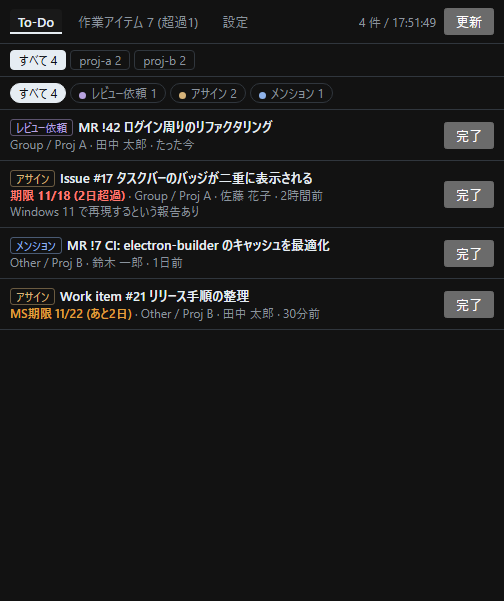
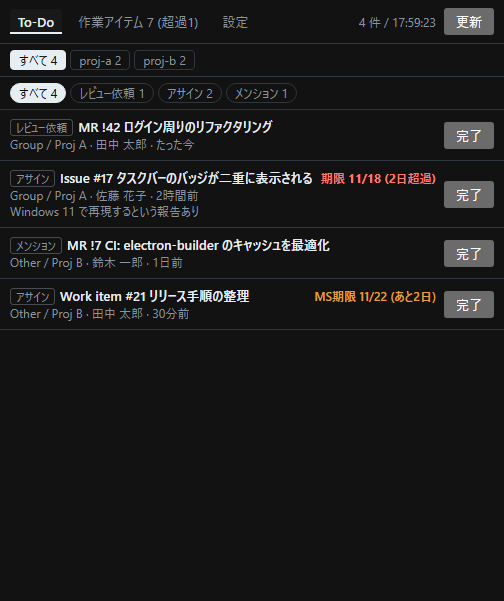
[Change] To-Do タブも同じ配色に揃え、期限を行の右端へ集める

diff --git a/src/index.html b/src/index.html
@@ -7,10 +7,10 @@
 <style>
   /* 配色のルール（#18）
      - 強調の色は少ないほど効く。強い色は「対応が必要なもの」だけ: 期限超過・期限間近・CI 失敗・インシデント
-     - 作業アイテムの種別は「分類」で意味を持たないので無彩色。色は意味のあるものに取っておく
+     - To-Do の種類・作業アイテムの種別は「分類」で意味を持たないので無彩色。色は意味のあるものに取っておく
      - MR の状態は GitHub / GitLab と同じ色の意味（オープン緑・マージ紫・クローズ赤）を記号だけに付け、文字は控えめに
      - 色だけに頼らない（WCAG 1.4.1）: MR は記号、期限は文言でも分かる
-     - 行は「本文（タイトル・補足）」と「末尾（期限）」に分け、急ぎの情報は右端にそろえる
+     - 行は「本文（タイトル・補足）」と「末尾（期限）」に分け、急ぎの情報は右端にそろえる（To-Do・作業アイテム共通）
      - 絞り込みの選択中は無彩色の反転表示。赤は「危険」の意味にだけ使う */
   :root {
     color-scheme: light dark;
@@ -25,14 +25,10 @@
       --chip-on-bg: #e6edf3; --chip-on-fg: #0d1117;
     }
   }
-  /* ラベルの色（明るい画面用）。暗い画面は下の prefers-color-scheme で差し替える */
-  .t-review { --tone: #7448c2; } .t-assign { --tone: #8a5a14; } .t-mention { --tone: #2d5fbf; }
-  .t-warn { --tone: #9a4a12; } .t-danger { --tone: #c62828; } .t-ok { --tone: #2f6f4f; }
-  .t-muted { --tone: #6e7781; }
+  /* 種別ラベルの色（明るい画面用）。分類は無彩色、対応が必要なものだけ danger */
+  .t-danger { --tone: #c62828; } .t-muted { --tone: #6e7781; }
   @media (prefers-color-scheme: dark) {
-    .t-review { --tone: #b8a3e0; } .t-assign { --tone: #d6b37a; } .t-mention { --tone: #8fb3eb; }
-    .t-warn { --tone: #f0a77f; } .t-danger { --tone: #ff7b72; } .t-ok { --tone: #8cc3a2; }
-    .t-muted { --tone: #8b949e; }
+    .t-danger { --tone: #ff7b72; } .t-muted { --tone: #8b949e; }
   }
   /* MR の状態（明るい画面用）。種別ラベルの .t-* とは名前も見た目も分ける */
   .s-open { --status: #1a7f37; } .s-draft { --status: #6e7781; } .s-merged { --status: #8250df; }
@@ -64,8 +60,6 @@
   /* 対応が必要な種類（CI 失敗・インシデントなど）だけは塗りで強調する */
   .tag.t-danger { color: #fff; background: var(--danger); border-color: var(--danger); }
   @media (prefers-color-scheme: dark) { .tag.t-danger { color: #0d1117; } }
-  .dot { display: inline-block; width: 7px; height: 7px; border-radius: 50%; vertical-align: middle;
-         margin-right: 5px; background: var(--tone, var(--muted)); }
   /* MR の状態: 枠も塗りもなし。色は先頭の記号だけに付け、文字は補足と同じ控えめな色 */
   .mr-status { display: inline-flex; align-items: center; gap: 4px; font-size: 12px; line-height: 16px;
                color: var(--muted); white-space: nowrap; }
@@ -86,6 +80,7 @@
   .related-mr-badges { display: flex; flex-wrap: wrap; gap: 2px 12px; margin-top: 3px; }
   /* 行の末尾の枠（期限）。本文が省略されても、期限は右端で必ず読める */
   li > .trail { flex-shrink: 0; text-align: right; font-size: 12px; white-space: nowrap; padding-top: 1px; }
+  li > .trail:empty { display: none; }
   #recentMrUpdates { background: var(--band); border-bottom: 1px solid var(--line); }
   #recentMrUpdatesTitle { margin: 0; padding: 6px 10px 3px; font-size: 11px; font-weight: 600; color: var(--muted); }
   #recentMrUpdatesList > li { border-bottom: none; }
@@ -138,7 +133,7 @@
     <h2 id="recentMrUpdatesTitle" data-i18n="recentMrUpdates"></h2>
     <ul id="recentMrUpdatesList"></ul>
   </section>
-  <p id="mrSyncError" class="hint t-warn" data-i18n="mrSyncError" hidden></p>
+  <p id="mrSyncError" class="hint" data-i18n="mrSyncError" hidden></p>
   <div class="bar repos" id="assignedRepos"></div>
   <div class="bar" id="assignedTypes"></div>
   <div class="hint hidden" id="assignedLimit"></div>

diff --git a/src/renderer.js b/src/renderer.js
@@ -32,8 +32,7 @@ function el(tag, cls, text) {
 }
 
 // 選択肢を並べ、クリックで filter[key] を切り替える。消えた選択肢は 'all' に戻す
-// toneOf を渡すと、各選択肢の先頭にラベルと同じ色の点を付ける（色と絞り込みを対応させるため）
-function renderChips(container, key, entries, labelOf = v => v, titleOf = () => '', toneOf = null) {
+function renderChips(container, key, entries, labelOf = v => v, titleOf = () => '') {
   if (filter[key] !== 'all' && !entries.has(filter[key])) filter[key] = 'all';
   container.replaceChildren();
   if (entries.size === 0) return;
@@ -41,8 +40,6 @@ function renderChips(container, key, entries, labelOf = v => v, titleOf = () => 
   for (const [value, n] of [['all', total], ...entries]) {
     const label = value === 'all' ? tr(lang, 'all') : labelOf(value);
     const c = el('span', `chip${filter[key] === value ? ' active' : ''}`);
-    const tone = value === 'all' ? null : toneOf?.(value);
-    if (tone) c.append(el('i', `dot t-${tone}`));
     c.append(`${label} ${n}`);
     c.title = value === 'all' ? '' : titleOf(value);
     c.onclick = () => { filter[key] = value; render(current); };
@@ -61,9 +58,7 @@ function renderTodos(todos, error) {
   renderChips($('#todoRepos'), 'todoRepo', countBy(todos, t => todoRepo(t, lang)), shortName, p => p);
   const inRepo = todos.filter(t => filter.todoRepo === 'all' || todoRepo(t, lang) === filter.todoRepo);
   const actionOf = t => actionLabel(lang, t.action_name);
-  // チップはラベルでまとめているので、色も引けるよう ラベル → 色 を覚えておく
-  const toneOfAction = new Map(inRepo.map(t => [actionOf(t), actionTone(t.action_name)]));
-  renderChips($('#actions'), 'action', countBy(inRepo, actionOf), undefined, () => '', v => toneOfAction.get(v));
+  renderChips($('#actions'), 'action', countBy(inRepo, actionOf));
   const shown = inRepo.filter(t => filter.action === 'all' || actionOf(t) === filter.action);
 
   const ul = $('#todos');
@@ -77,18 +72,18 @@ function renderTodos(todos, error) {
     const ref = todoRef(t);
     title.append(`${TYPES[t.target_type] ?? t.target_type}${ref ? ` ${ref}` : ''} ${t.target?.title ?? ''}`);
     const meta = el('div', 'meta');
-    // アサインは期限を表示（Issue の期限、なければマイルストーンの期限）
-    if (t.action_name === 'assigned') {
-      const due = dueInfoOr(t, lang);
-      if (due) meta.append(el('span', due.cls, due.text), ' · ');
-    }
     meta.append(`${t.project?.name_with_namespace ?? t.group?.full_name ?? ''} · ${t.author?.name ?? ''} · ${ago(t.created_at, { lang })}`);
     main.append(title, meta);
     if (t.body) main.append(el('div', 'body', t.body));
+    // 作業アイテムタブと同じく、期限は行の右端（末尾の枠）にまとめる。
+    // アサインだけ期限を出す（Issue の期限、なければマイルストーンの期限）
+    const trail = el('div', 'trail');
+    const due = t.action_name === 'assigned' ? dueInfoOr(t, lang) : null;
+    if (due) trail.append(el('span', due.cls, due.text));
     const btn = el('button', null, tr(lang, 'done'));
     btn.title = lang === 'en' ? 'Mark this To-Do as done on GitLab' : 'GitLab 上で To-Do を完了にする';
     btn.onclick = e => { e.stopPropagation(); btn.disabled = true; window.api.done(t.id); };
-    li.append(main, btn);
+    li.append(main, trail, btn);
     li.onclick = () => window.api.open(t.target_url);
     ul.append(li);
   }

diff --git a/scripts/gui-test.js b/scripts/gui-test.js
@@ -177,19 +177,19 @@ let m = null;
   const tags = await evl(`[...document.querySelectorAll('#todos .tag')].map(e => e.textContent).join(',')`);
   check('種別ラベル', tags === 'レビュー依頼,アサイン,メンション,アサイン', tags);
 
-  // 通知の種類ごとに色が変わっているか（#14）
+  // #18: To-Do の種類は分類なので無彩色の1色。期限は行の右端、絞り込みチップに色の点は付けない
   const tagTones = await evl(`[...document.querySelectorAll('#todos .tag')].map(e => [...e.classList].find(c => c.startsWith('t-'))).join(',')`);
-  check('種別ラベルが種類ごとに色分け', tagTones === 't-review,t-assign,t-mention,t-assign', tagTones);
-  const tagColors = await evl(`[...new Set([...document.querySelectorAll('#todos .tag')].map(e => getComputedStyle(e).color))].join(' / ')`);
-  check('ラベルの描画色が実際に 3 色分かれている', tagColors.split(' / ').length === 3, tagColors);
-  const actionDots = await count('#actions .dot');
-  check('種別のチップにも同じ色の点が付く', actionDots === 3, String(actionDots));
-  // 開発機が暗い画面だと明るい画面用の配色を検証できないので、この項目だけ prefers-color-scheme を偽装する
-  await cdp.send('Emulation.setEmulatedMedia', { features: [{ name: 'prefers-color-scheme', value: 'light' }] });
-  const tagColorsLight = await evl(`[...new Set([...document.querySelectorAll('#todos .tag')].map(e => getComputedStyle(e).color))].join(' / ')`);
-  check('明るい画面用の配色でも 3 色分かれる',
-    tagColorsLight.split(' / ').length === 3 && tagColorsLight !== tagColors, tagColorsLight);
+  check('To-Do の種類ラベルは無彩色', tagTones === 't-muted,t-muted,t-muted,t-muted', tagTones);
+  for (const scheme of ['dark', 'light']) {
+    await cdp.send('Emulation.setEmulatedMedia', { features: [{ name: 'prefers-color-scheme', value: scheme }] });
+    const colors = await evl(`[...new Set([...document.querySelectorAll('#todos .tag')].map(e => getComputedStyle(e).color))]`);
+    const [r, g, b] = (colors[0] ?? '').match(/\d+/g)?.map(Number) ?? [0, 255, 0];
+    check(`[${scheme}] To-Do の種類ラベルは無彩色の1色`, colors.length === 1 && Math.max(r, g, b) - Math.min(r, g, b) < 32, JSON.stringify(colors));
+  }
   await cdp.send('Emulation.setEmulatedMedia', { features: [] });
+  check('To-Do の絞り込みチップに色の点を付けない', (await count('#actions .dot')) === 0);
+  const todoTrail = await evl(`[...document.querySelectorAll('#todos > li')].map(li => li.querySelector(':scope > .trail > .due') ? 'R' : li.querySelector('.due') ? 'L' : '-').join('')`);
+  check('To-Do の期限も行の右端（完了ボタンの左）に出る', todoTrail === '-R-R', todoTrail);
 
   const meta = await evl(`[...document.querySelectorAll('#todos .meta')].map(e => e.textContent).join('|')`);
   check('経過時間（たった今/時間前/日前）',

diff --git a/src/lib.js b/src/lib.js
@@ -115,17 +115,15 @@ function tr(lang, key, vars) {
 const actionLabel = (lang, name) => ACTIONS[lang]?.[name] ?? ACTIONS.ja[name] ?? name;
 
 // ---------- ラベルの色 ----------
-// action_name を「対応の急ぎ具合」で色のグループに寄せる。CSS の .t-<名前> に対応させる
-//   review: レビュー依頼（主役）  assign: アサイン（期限と紐づく）  mention: 呼ばれた
-//   warn: 承認待ち  danger: 壊れている  ok: 済み  muted: 情報扱い
+// To-Do の種類は「分類」で意味を持たないので無彩色（muted）にそろえる（#18）。
+// 何かが壊れていて対応が必要な種類だけ danger で強調する。CSS の .t-<名前> に対応させる。
+// 新しい action_name を足すときは、どちらにするかをここで明示的に決める（テストで網羅を確認）
 const ACTION_TONES = {
-  review_requested: 'review',
-  assigned: 'assign',
-  mentioned: 'mention', directly_addressed: 'mention',
-  approval_required: 'warn',
-  build_failed: 'danger', unmergeable: 'danger', merge_train_removed: 'danger',
-  review_submitted: 'ok',
+  review_requested: 'muted', assigned: 'muted',
+  mentioned: 'muted', directly_addressed: 'muted',
+  approval_required: 'muted', review_submitted: 'muted',
   marked: 'muted', member_access_requested: 'muted',
+  build_failed: 'danger', unmergeable: 'danger', merge_train_removed: 'danger',
 };
 
 // 未知の action_name は無色。色を付け忘れた項目もここ落ちするので、テストで網羅を確認する

diff --git a/test/lib.test.js b/test/lib.test.js
@@ -332,19 +332,21 @@ test('ACTION_TONES: 日英で action_name の一覧がズレていない', () =>
   assert.deepEqual(Object.keys(ACTIONS.en).sort(), Object.keys(ACTIONS.ja).sort());
 });
 
-test('actionTone: 未知の action_name は無色', () => {
-  assert.equal(actionTone('review_requested'), 'review');
-  assert.equal(actionTone('assigned'), 'assign');
-  assert.equal(actionTone('mentioned'), 'mention');
-  assert.equal(actionTone('directly_addressed'), 'mention');
+test('actionTone: 分類は無彩色、壊れているものだけ danger（#18）', () => {
+  assert.equal(actionTone('review_requested'), 'muted');
+  assert.equal(actionTone('assigned'), 'muted');
+  assert.equal(actionTone('mentioned'), 'muted');
   assert.equal(actionTone('build_failed'), 'danger');
+  assert.equal(actionTone('unmergeable'), 'danger');
   assert.equal(actionTone('何らかの新しいアクション'), 'muted');
+  assert.deepEqual([...new Set(Object.values(ACTION_TONES))].sort(), ['danger', 'muted']);
 });
 
 test('workItemTone: 翻訳を持つ種別は必ず色を持つ', () => {
   const missing = Object.keys(WORK_ITEM_TYPES.ja).filter(k => !WORK_ITEM_TONES[k]);
   assert.deepEqual(missing, [], `色が付いていない issue_type: ${missing.join(', ')}`);
   assert.equal(workItemTone('incident'), 'danger');
+  assert.equal(workItemTone('issue'), 'muted');
   assert.equal(workItemTone('unknown_type'), 'muted');
 });
 
